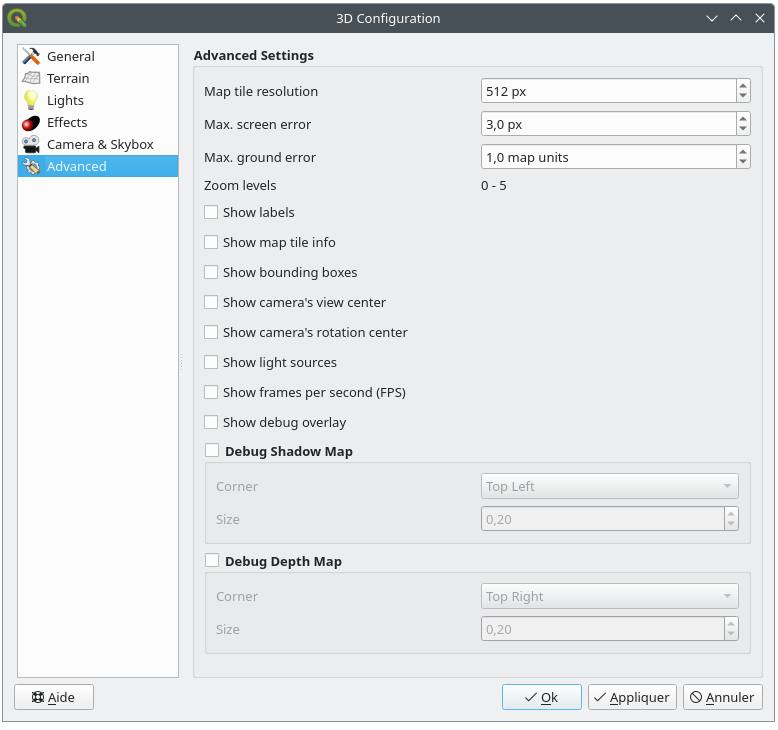
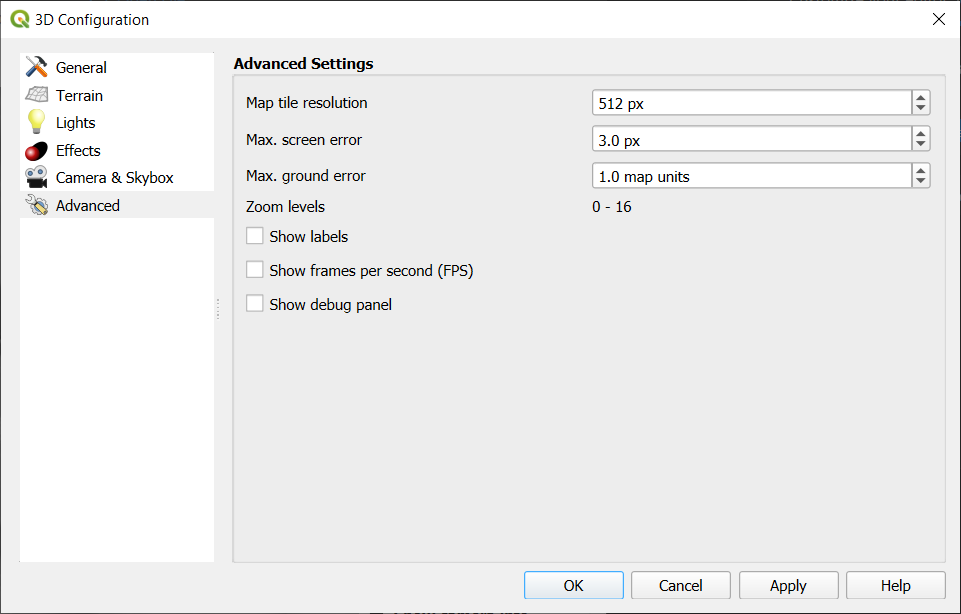
3d debug widget

diff --git a/docs/user_manual/map_views/3d_map_view.rst b/docs/user_manual/map_views/3d_map_view.rst
@@ -350,27 +350,38 @@ Advanced
 * :guilabel:`Zoom levels`: Shows the number of zoom levels (depends on
   the map tile resolution and max. ground error).
 * |unchecked| :guilabel:`Show labels`: Toggles map labels on/off
-* |unchecked| :guilabel:`Show map tile info`: Include border and tile
-  numbers for the terrain tiles (useful for troubleshooting terrain issues)
-* |unchecked| :guilabel:`Show bounding boxes`: Show 3D bounding boxes
-  of the terrain tiles (useful for troubleshooting terrain issues)
-* |unchecked| :guilabel:`Show camera's view center`
-* |unchecked| :guilabel:`Show camera's rotation center`
-* |unchecked| :guilabel:`Show light sources`: shows a sphere at light source origins,
-  allowing easier repositioning and placement of light sources relative to the scene contents
 * |unchecked| :guilabel:`Show frames per second (FPS)`
-* |unchecked| :guilabel:`Show debug overlay`: visual overlay which displays
-  some useful debugging and profiling information.
-  This allows in particular to quickly see the frame graph and the scene graph.
-* |unchecked| :guilabel:`Debug Shadow Map`: renders the scene as a red-black image
-  from the point of view of the light used for shadows (for troubleshooting). 
-  The widget is set with a proportional :guilabel:`Size` to the 3D map view's,
-  and docked in a :guilabel:`Corner`.
-* |unchecked| :guilabel:`Debug Depth Map`: renders the scene's depth map as an  image
-  with nearer pixels being darker (for troubleshooting).
-  The widget is set with a proportional :guilabel:`Size` to the 3D map view's,
-  and docked in a :guilabel:`Corner`.
+* |unchecked| :guilabel:`Show debug panel`: side panel which displays
+  all debug information about the 3D map view:
 
+  * |unchecked| :guilabel:`Show map tile info`: Include border and tile
+    numbers for the terrain tiles (useful for troubleshooting terrain issues)
+  * |unchecked| :guilabel:`Show bounding boxes`: Show 3D bounding boxes
+    of the terrain tiles (useful for troubleshooting terrain issues)
+  * |unchecked| :guilabel:`Show camera's view center`
+  * |unchecked| :guilabel:`Show camera's rotation center`
+  * |unchecked| :guilabel:`Show light sources`: shows a sphere at light source origins,
+    allowing easier repositioning and placement of light sources relative to the scene contents
+  * |unchecked| :guilabel:`Stop scene updates`
+  * |unchecked| :guilabel:`Show debug overlay`: visual overlay which displays some useful debugging
+    and profiling information. This allows in particular to quickly see the frame graph and the scene graph
+  * |unchecked| :guilabel:`Debug Shadow Map`: renders the scene as a red-black image
+    from the point of view of the light used for shadows (for troubleshooting). 
+    The widget is set with a proportional :guilabel:`Size` to the 3D map view's,
+    and docked in a :guilabel:`Corner`.
+  * |unchecked| :guilabel:`Debug Depth Map`: renders the scene's depth map as an  image
+    with nearer pixels being darker (for troubleshooting).
+    The widget is set with a proportional :guilabel:`Size` to the 3D map view's,
+    and docked in a :guilabel:`Corner`.
+  * :guilabel:`Show camera info`:
+
+     * |unchecked| :guilabel:`Far plane`: controls how far from the camera rendering stops
+     * |unchecked| :guilabel:`Near plane`: controls how close to the camera rendering starts
+     * |unchecked| :guilabel:`Camera X/Y/Z pos`: sets the camera’s position in 3D space
+     * |unchecked| :guilabel:`Looking at X/Y/Z`: sets the target point the camera is looking at
+
+.. note:: When your 3D map view is open in a standalone window, you can
+   use :kbd:`CTRL + SHIFT + d` keyboard shortcut to access the debug panel.
 
 .. _`3d_navigation`:
 
